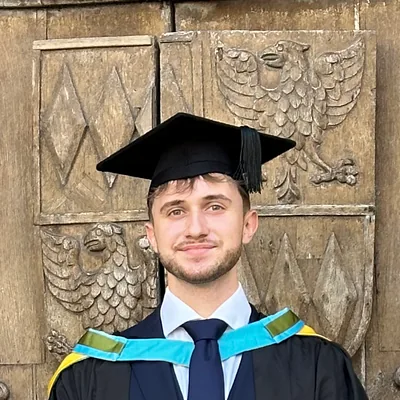
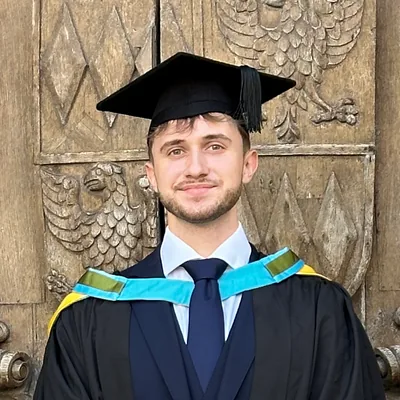
added contact form, changes font and spacing

diff --git a/public/assets/css/style.css b/public/assets/css/style.css
@@ -5,7 +5,7 @@
   this header is the short version.
 
   - One column, at most 72 characters wide, left-aligned.
-  - One typeface: the visitor's own monospace font. Nothing is downloaded.
+  - One typeface: Inconsolata, self-hosted (assets/fonts/inconsolata, SIL OFL).
   - Greyscale UI: ink, a muted grey, a hairline. No accent colour, no gradients,
     no shadows, no rounded corners. Photos (portrait and gallery) are the only colour.
   - Links are ink with a grey underline that darkens on hover. Profile links sit in
@@ -16,6 +16,9 @@
   Conventions
   - Colours and spacing are tokens (custom properties); never inline a hex below the
     token blocks.
+  - Spacing follows a 4px-based 8-point grid and the Gestalt law of proximity: the
+    closer two things belong together, the smaller the gap (description < entry <
+    heading-to-content < section). See DESIGN.md, Layout Principles.
   - Sizes are in rem so they follow the reader's browser setting (1rem = 16px).
   - Light and dark follow the visitor's system setting (prefers-color-scheme); only the
     token block changes.
@@ -34,19 +37,20 @@
   --underline: #bbbbbb;
   --field-border: #8a8a8a;         /* 3:1 against the page, for form-field edges */
 
-  /* Spacing */
-  --space-xs: 0.5rem;
-  --space-sm: 1rem;
-  --space-md: 1.5rem;
-  --space-lg: 3rem;
-  --space-xl: 4rem;
+  /* Spacing: 8-point grid with a 4px half-step */
+  --space-2xs: 0.25rem;            /*  4px */
+  --space-xs: 0.5rem;              /*  8px */
+  --space-sm: 0.75rem;             /* 12px */
+  --space-md: 1rem;                /* 16px */
+  --space-lg: 2rem;                /* 32px */
+  --space-xl: 3rem;                /* 48px */
 
   /* Layout */
-  --measure: 72ch;
+  --measure: 76ch;                 /* ~645px; Inconsolata is narrow (0.5em per character) */
   --gutter: 1rem;
   --label-w: 6ch;                  /* the year / label column */
 
-  --mono: ui-monospace, "SF Mono", SFMono-Regular, Menlo, Consolas, "Liberation Mono", monospace;
+  --mono: "Inconsolata", ui-monospace, "SF Mono", SFMono-Regular, Menlo, Consolas, "Liberation Mono", monospace;
 }
 
 @media (prefers-color-scheme: dark) {
@@ -58,6 +62,16 @@
     --underline: #555555;
     --field-border: #6a6a6a;
   }
+}
+
+/* ---------- Font ---------- */
+/* One variable file covers every weight (Latin subset, 34 KB); preloaded in head.html. */
+@font-face {
+  font-family: "Inconsolata";
+  font-style: normal;
+  font-weight: 200 900;
+  font-display: swap;
+  src: url("/assets/fonts/inconsolata/inconsolata-latin-wght-normal.woff2") format("woff2");
 }
 
 /* ---------- Base ---------- */
@@ -73,8 +87,8 @@ body {
   background: var(--bg);
   color: var(--ink);
   font-family: var(--mono);
-  font-size: 0.9375rem;            /* 15px */
-  line-height: 1.6;
+  font-size: 1.0625rem;            /* 17px: Inconsolata runs small, so this matches 15px SF Mono */
+  line-height: 1.5;
 }
 
 [hidden] { display: none !important; }   /* must beat component display rules */
@@ -107,7 +121,7 @@ a {
   top: -100px;
   left: var(--gutter);
   z-index: 20;
-  padding: var(--space-xs) var(--space-sm);
+  padding: var(--space-xs) var(--space-md);
   border: 1px solid var(--ink);
   background: var(--bg);
 }
@@ -127,7 +141,7 @@ a {
 .intro {
   display: flex;
   align-items: center;
-  gap: var(--space-sm);
+  gap: var(--space-md);
 }
 
 .avatar {
@@ -137,7 +151,7 @@ a {
 }
 
 .links {
-  margin-top: var(--space-md);
+  margin-top: var(--space-sm);
   display: flex;
   flex-wrap: wrap;
   gap: 0 1.5ch;
@@ -154,7 +168,7 @@ a {
 /* ---------- Sections and entries ---------- */
 .section h2 {
   margin: var(--space-lg) 0 var(--space-sm);
-  padding-bottom: var(--space-xs);
+  padding-bottom: var(--space-2xs);
   border-bottom: 1px solid var(--rule);
   font-weight: 400;
   color: var(--muted);
@@ -171,7 +185,7 @@ a {
 
 .entry__meta {
   color: var(--muted);
-  font-size: 0.875rem;             /* 14px */
+  font-size: 0.9375rem;            /* 15px */
 }
 
 /* ---------- Photos ---------- */
@@ -202,7 +216,7 @@ a {
 
 .form label {
   display: block;
-  margin-bottom: 0.25rem;
+  margin-bottom: var(--space-2xs);
   color: var(--muted);
 }
 
@@ -229,7 +243,7 @@ a {
 .button {
   justify-self: start;
   min-height: 2.75rem;
-  padding: var(--space-xs) var(--space-sm);
+  padding: var(--space-xs) var(--space-md);
   border: 1px solid var(--ink);
   border-radius: 0;
   background: var(--bg);
@@ -250,23 +264,23 @@ a {
 .form__status,
 .form__note {
   color: var(--muted);
-  font-size: 0.875rem;
+  font-size: 0.9375rem;
 }
 
 /* ---------- 404 ---------- */
-.notfound p { margin: var(--space-xs) 0 var(--space-md); }
+.notfound p { margin: var(--space-xs) 0 var(--space-lg); }
 
 /* ---------- Footer ---------- */
-/* The footer keeps the body font size so its 72ch column matches the page's exactly
+/* The footer keeps the body font size so its 76ch column matches the page's exactly
    (ch scales with font size); only the text inside is smaller. */
 .footer {
   max-width: var(--measure);
-  margin: var(--space-xl) auto 0;
-  padding: var(--space-sm) var(--gutter) var(--space-xl);
+  margin: var(--space-lg) auto 0;
+  padding: 0 var(--gutter) var(--space-lg);
   color: var(--muted);
 }
 
-.footer p { font-size: 0.875rem; }
+.footer p { font-size: 0.9375rem; }
 
 /* The hairline spans the text column, not the padding. */
 .footer::before {
@@ -278,7 +292,7 @@ a {
 
 /* ---------- Phones ---------- */
 @media (max-width: 480px) {
-  .page { padding-top: 2.5rem; }
+  .page { padding-top: var(--space-lg); }
   .entry { grid-template-columns: 1fr; }
   .photo-strip { grid-template-columns: repeat(2, 1fr); }
 }

diff --git a/src/pages/index.html b/src/pages/index.html
@@ -1,6 +1,6 @@
 ---
-title: Neo Cass — Software Engineer at CERN
-description: Neo Cass is a software engineer at CERN. Publications, a conference presentation and CV.
+title: Neo Cass — Computing Engineer
+description: Neo Cass, Computing Engineer. Publications, a conference presentation and CV.
 canonical: https://neocass.com/
 ---
 <!DOCTYPE html>
@@ -25,7 +25,7 @@ canonical: https://neocass.com/
       <img class="avatar" src="/assets/images/profile.webp" alt="Portrait of Neo Cass" width="400" height="400" fetchpriority="high">
       <div>
         <h1>Neo Cass</h1>
-        <p class="muted">Software Engineer at CERN</p>
+        <p class="muted">Computing Engineer, currently at CERN</p>
       </div>
     </div>
 
@@ -113,18 +113,17 @@ canonical: https://neocass.com/
   </section>
 
   <!--
-    Contact form (Web3Forms). Hidden on the live site until a real access key is set; on
-    localhost it shows with a notice so you can preview it.
-    1. Get a key at https://web3forms.com by entering the address that should receive messages.
-    2. Replace YOUR_WEB3FORMS_ACCESS_KEY below with it (a UUID). The key is public by design and
-       can only send mail to that address; the address itself never appears on the page.
+    Contact form (Web3Forms). The access_key below is live. It is public by design: it can
+    only send mail to the address it was issued for, which never appears on the page. To
+    change the receiving address, get a new key at https://web3forms.com and replace it.
+    With no valid key (a UUID) the form hides itself on the live site.
     Logic lives in public/assets/js/contact.js.
   -->
   <section class="section" id="contact" aria-labelledby="contact-heading" data-contact hidden>
     <h2 id="contact-heading">Contact</h2>
 
     <form class="form" id="contact-form" method="post" action="https://api.web3forms.com/submit">
-      <input type="hidden" name="access_key" value="YOUR_WEB3FORMS_ACCESS_KEY">
+      <input type="hidden" name="access_key" value="038c3218-361b-4f88-a398-c3f0ce5cf75c">
       <input type="hidden" name="subject" value="New message from neocass.com">
       <!-- Honeypot: people never see or tick this; simple bots do. -->
       <input class="hp" type="checkbox" name="botcheck" tabindex="-1" autocomplete="off">

diff --git a/src/partials/head.html b/src/partials/head.html
@@ -2,11 +2,11 @@
 <meta name="viewport" content="width=device-width, initial-scale=1.0">
 <!--
   Content Security Policy. GitHub Pages cannot send headers, so it is set here.
-  Everything is same-origin except the contact form's POST to Web3Forms.
+  Everything (including the self-hosted font) is same-origin except the contact form's POST to Web3Forms.
   To enable analytics (src/partials/analytics.html) also allow its script and endpoint:
     script-src 'self' https://gc.zgo.at;  connect-src https://api.web3forms.com https://CODE.goatcounter.com
 -->
-<meta http-equiv="Content-Security-Policy" content="default-src 'none'; img-src 'self'; style-src 'self'; script-src 'self'; connect-src https://api.web3forms.com; form-action https://api.web3forms.com; base-uri 'self'">
+<meta http-equiv="Content-Security-Policy" content="default-src 'none'; img-src 'self'; style-src 'self'; font-src 'self'; script-src 'self'; connect-src https://api.web3forms.com; form-action https://api.web3forms.com; base-uri 'self'">
 <title>{{ title }}</title>
 <meta name="description" content="{{ description }}">
 <meta name="author" content="Neo Cass">
@@ -16,4 +16,5 @@
 <link rel="icon" href="/favicon.ico" sizes="48x48">
 <link rel="icon" href="/assets/icons/icon-192.png" type="image/png" sizes="192x192">
 <link rel="apple-touch-icon" href="/apple-touch-icon.png">
+<link rel="preload" href="/assets/fonts/inconsolata/inconsolata-latin-wght-normal.woff2" as="font" type="font/woff2" crossorigin>
 <link rel="stylesheet" href="/assets/css/style.css">

diff --git a/src/partials/structured-data.html b/src/partials/structured-data.html
@@ -8,8 +8,9 @@
   "alternateName": "Neo Michael Cass",
   "url": "https://neocass.com/",
   "image": "https://neocass.com/assets/images/profile.webp",
-  "jobTitle": "Software Engineer",
-  "worksFor": { "@type": "Organization", "name": "CERN", "url": "https://home.cern" },
+  "jobTitle": "Computing Engineer",
+  "worksFor": { "@type": "Organization", "name": "CERN", "url": "https://home.cern", "sameAs": "https://en.wikipedia.org/wiki/CERN" },
+  "affiliation": { "@type": "Organization", "name": "CERN", "url": "https://home.cern", "sameAs": "https://en.wikipedia.org/wiki/CERN" },
   "alumniOf": { "@type": "CollegeOrUniversity", "name": "University of Bath" },
   "sameAs": [
     "https://github.com/neo-cass",

diff --git a/scripts/build_images.py b/scripts/build_images.py
@@ -48,7 +48,7 @@ GALLERY = {
     "thesis-talk": ("IMG_1909.HEIC", (480, 700, 2500, 3300)),  # screen + speaker + lectern
     "poster-day": ("IMG_2651.jpeg", (0, 0, 2733, 2540)),
 }
-PROFILE = ("IMG_5073.HEIC", (1062, 610, 1922, 1470))  # head and shoulders
+PROFILE = ("IMG_5073.HEIC", (1062, 740, 1922, 1600))  # head and shoulders
 FACE = ("IMG_5073.HEIC", (1208, 702, 1776, 1270))     # tight crop for tiny icons
 OG = ("IMG_5073.HEIC", (480, 560, 2480, 1610))        # 1200:630 ratio
 

diff --git a/DESIGN.md b/DESIGN.md
@@ -14,8 +14,8 @@ The plainness is deliberate. Engineers and hiring managers read heavy styling as
 a bare page puts the work (a CERN thesis, a poster, a talk) first and signals that someone
 chose every element. Restraint is the personality: decoration is never added to fill space.
 
-- **Density:** Airy vertically, compact horizontally. Generous gaps between sections, tight
-  rows within them.
+- **Density:** Compact but not cramped. Clear gaps between sections, tight rows within
+  them; white space only where it separates groups, never as filler.
 - **Mood:** Utilitarian, calm, confident. Closer to a man page than to a portfolio.
 
 ## 2. Color Palette & Roles
@@ -40,15 +40,20 @@ colour on the page, so they stand out against the greyscale text.
 
 ## 3. Typography Rules
 
-- **One typeface: the visitor's own monospace font** (SF Mono on Apple devices, Consolas on
-  Windows, Liberation Mono or similar on Linux). No web fonts are downloaded, ever.
-- **Body:** 15px (0.9375rem), line height 1.6. Every size is in rem so it follows the
-  reader's browser setting.
+- **One typeface: Inconsolata**, self-hosted from `public/assets/fonts/inconsolata/` (one
+  34 KB variable file, Latin subset, SIL Open Font License in `OFL.txt`). It is preloaded,
+  shown with `font-display: swap`, and falls back to the system monospace font. Nothing is
+  loaded from Google or any other font service. It was chosen so the page looks the same on
+  every device (the old system-font stack showed SF Mono, Menlo or Consolas depending on
+  the browser) and for its calm, slightly narrow, humanist shapes.
+- **Body:** 17px (1.0625rem), line height 1.5. Inconsolata has a small x-height, so 17px
+  reads like 15px in most monospace fonts. Every size is in rem so it follows the reader's
+  browser setting.
 - **Name (h1):** the same size as the body, bold. Hierarchy comes from weight and position,
   not from big type.
 - **Section headings (h2):** body size, regular weight, Muted, sentence case
   ("Publications", "Presentations", "CV", "Photos").
-- **Descriptions and footer:** 14px, Muted, sentence case with proper nouns capitalised
+- **Descriptions and footer:** 15px (0.9375rem), Muted, sentence case with proper nouns capitalised
   ("Master’s thesis · University of Bath & CERN").
 - **Separators:** a middle dot with spaces ( · ) between facts in a description.
 - **Naming:** the document is always called **CV**, never "résumé". Profile links use each
@@ -74,14 +79,39 @@ colour on the page, so they stand out against the greyscale text.
 * **Never used:** rounded corners, pills, cards, shadows, gradients, glow, emoji as icons,
   icon fonts, accent colours, entrance or scroll animations.
 
+## 6. AI-look review
+
+Checked on 22 Nov 2026 with the `unslop-ui` audit (its scanner plus a manual pass over the
+nine common "looks AI-generated" patterns). Result: clean, scanner score 0. No
+Tailwind/shadcn defaults, no purple or indigo, no gradients, no gratuitous motion, no
+rounded corners, no glow, no emoji icons, no centred hero with feature cards. The only
+item it raised, the generic system font, was resolved by switching to Inconsolata. Re-run
+the audit after any visual redesign and keep this section up to date.
+
 ## 5. Layout Principles
 
-- **One left-aligned column**, at most 72 characters wide, centred on the page, with a 16px
+- **One left-aligned column**, at most 76 characters wide (about 645px), centred on the page, with a 16px
   gutter on each side so nothing touches the screen edge on phones.
 - **Top to bottom:** header (portrait, name, role, profile links), Publications,
   Presentations, CV, Photos, then the contact form when it is enabled, then the footer.
   There is no navigation bar; the page is short enough to scroll.
-- **Spacing rhythm:** 64px above the header (40px on phones), 48px above each section
-  heading, 16px between entries, 64px before the footer.
+- **Spacing system: an 8-point grid with a 4px half-step** (the scale used by Material
+  Design and most product design systems), applied with the **Gestalt law of proximity**:
+  things that belong together sit closer than things that do not, so the gaps alone show
+  the structure without extra boxes or lines.
+
+  | Token | Size | Used for |
+  |---|---|---|
+  | `--space-2xs` | 4px | Heading text to its hairline; form label to field |
+  | `--space-xs` | 8px | Between photo thumbnails; button and field padding |
+  | `--space-sm` | 12px | Name block to profile links; hairline to first entry; between entries; between form fields; footer hairline to text |
+  | `--space-md` | 16px | Portrait to name; horizontal button padding |
+  | `--space-lg` | 32px | Above each section heading; before the footer; below the footer; top of page on phones |
+  | `--space-xl` | 48px | Top of page on desktop |
+
+  The proximity order, from closest to furthest: a title and its description (no gap, just
+  line height) < one entry and the next (12px) < a heading and its content (16px including
+  the hairline) < one section and the next (32px). Each step is clearly larger than the one
+  before, so the eye groups correctly. Don't add a gap that breaks that order.
 - **Footer:** "© year Neo Cass" in Muted under a hairline that spans the text column.
 - **Breakpoint:** a single one at 480px, where entry rows stack and photos go two across.

diff --git a/README.md b/README.md
@@ -87,20 +87,18 @@ plain links to the full image.
 
 ## Contact form
 
-Uses [Web3Forms](https://web3forms.com). The form and the `[Contact]` link at the top of the
-page are **hidden on the live site until a valid access key is set**:
+Uses [Web3Forms](https://web3forms.com) and is **live**: the access key is set in
+`src/pages/index.html` (the hidden `access_key` field). The key is public by design and can
+only send mail to the address it was issued for; that address is never in the repo.
 
-1. Get a key at web3forms.com for the address that should receive messages.
-2. Replace `YOUR_WEB3FORMS_ACCESS_KEY` in `src/pages/index.html` with it (a UUID; anything
-   else counts as "not set"). The key is public by design and can only send mail to that
-   address; the address itself is never in the repo.
-
-On `localhost` the form is shown with a "preview only" notice so layout can be checked first.
+To change the receiving address, get a new key at web3forms.com and replace the old one. If
+the field ever holds something that is not a valid key (a UUID), the form and the `[Contact]`
+link hide themselves on the live site; on `localhost` they show with a "preview only" notice.
 
 ## Design
 
 Plain, text-first and monospace, written up in [`DESIGN.md`](DESIGN.md): one narrow column,
-the visitor's own monospace font (nothing downloaded), greyscale text with full-colour photos, no rounded corners,
+one self-hosted monospace font (Inconsolata), greyscale text with full-colour photos, no rounded corners,
 shadows or gradients. Entries are rows with the year on the left; profile links sit in
 `[brackets]`. Light and dark themes follow the visitor's system setting. The header of
 `public/assets/css/style.css` has the short version.
